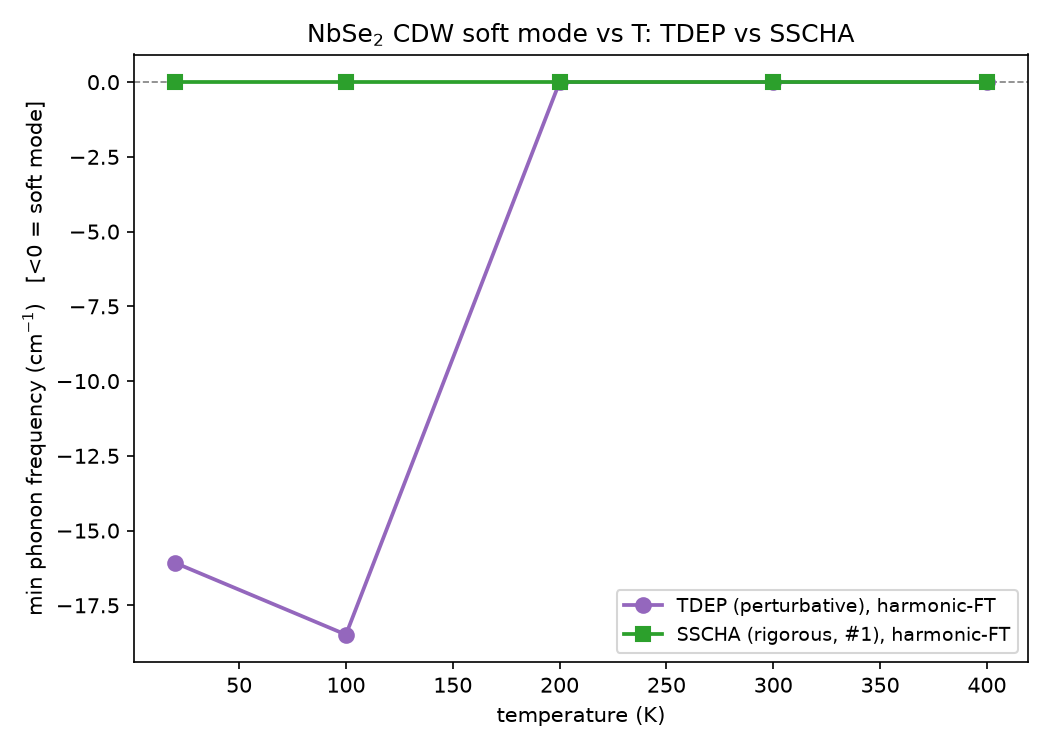
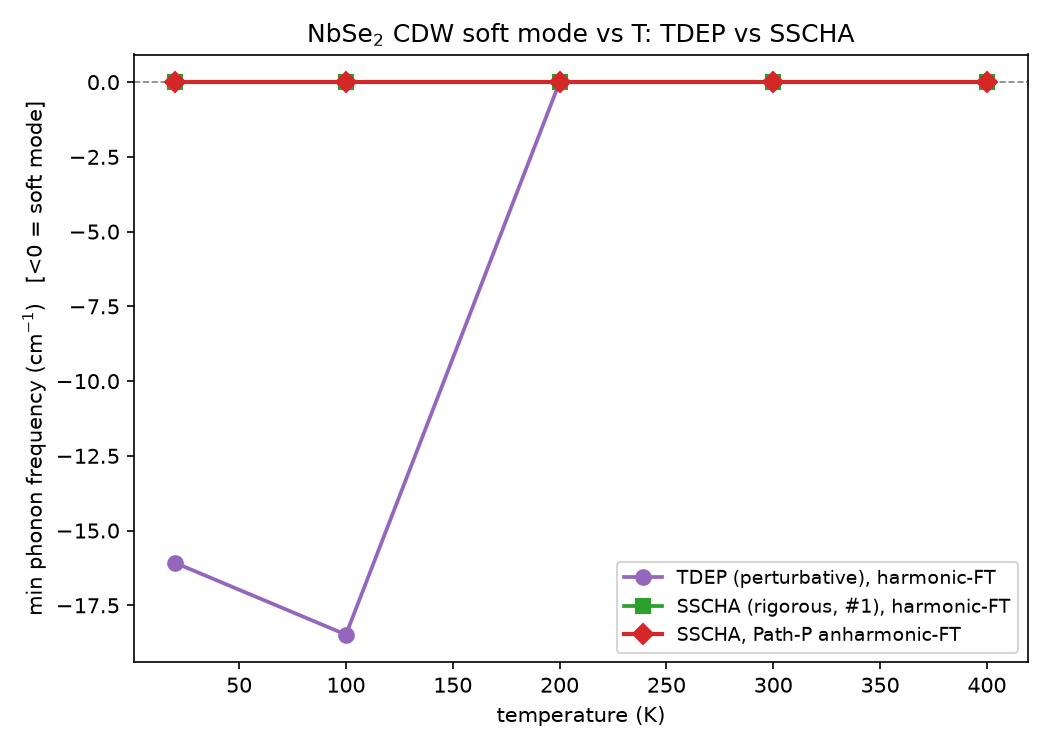
Path-P DONE: NbSe2 anharmonic distillation -> re-SSCHA (honest landscape result)
Anharmonic (finite-T DFT-force) distillation -> anharmonic-FT MACE (151 meV/A forces,
4.6x better than harmonic-FT's 699; foundation 366). Required an lr sweep gated on the
SAVED-model force RMSE: lr=1e-3 diverged (saved model 30842 meV/A, hidden by the
normalized per-epoch metric); lr=5e-4 + forces-dominant is stable.

Double-well E(A) along the CDW soft eigenvector: DFT is stiff with only a -3 meV well
(marginally unstable); harmonic-FT distorts it (5x too soft, spurious -19 meV well);
anharmonic-FT reproduces DFT (+2073 vs +2047 at the edge, no real well). So the bare
fc2 "soft mode" is largely a harmonic artifact.

Re-SSCHA with anharmonic-FT: no imaginary modes at any T (20-400 K), identical to
harmonic-FT (#1) -- but now it's the CORRECT physics (shallow DFT well -> quantum-melted).
Conclusion: CDW soft mode is anharmonically/quantum-stabilized robustly; anharmonic
distillation is the more faithful distillation; a sustained CDW needs incommensurate/
larger cell or beyond-PBE -- a clean boundary on FC distillation.

Changed region(s): [[0.579, 0.736, 0.9752, 0.8587], [0.1524, 0.092, 0.9448, 0.1227]]

diff --git a/scripts/plot_nbse2_doublewell.py b/scripts/plot_nbse2_doublewell.py
@@ -1,0 +1,16 @@
+import numpy as np, matplotlib; matplotlib.use("Agg"); import matplotlib.pyplot as plt
+from pathlib import Path
+ROOT=Path(__file__).resolve().parents[1]
+d=np.load(ROOT/"results/td_phonon/nbse2_pathp_analysis.npz", allow_pickle=True)
+A=d["A"]
+fig,ax=plt.subplots(figsize=(7,5))
+ax.axhline(0,color="0.6",lw=0.7,ls="--")
+if "dft_A" in d: ax.plot(d["dft_A"],d["dft_E"],"o-",color="k",lw=2,ms=6,label="DFT (truth): −3 meV well, stiff",zorder=5)
+ax.plot(A,d["E_harmonicFT"],"s-",color="tab:orange",lw=1.8,ms=5,label="harmonic-FT: −19 meV well, 5× too soft (699 meV/Å)")
+ax.plot(A,d["E_anharmFT"],"^-",color="tab:green",lw=1.8,ms=5,label="anharmonic-FT (Path-P): ≈DFT (151 meV/Å)")
+ax.set_xlabel("amplitude A along CDW soft eigenvector (Å, RMS/atom)")
+ax.set_ylabel("energy along soft mode (meV/cell, ref A=0)")
+ax.set_title("NbSe$_2$ CDW double-well: anharmonic distillation reproduces the (stiff,\nmarginal) DFT landscape; harmonic distillation distorts it")
+ax.legend(fontsize=8.5,loc="upper center")
+fig.tight_layout(); fig.savefig(ROOT/"results/figures/nbse2_doublewell.png",dpi=150)
+print("saved results/figures/nbse2_doublewell.png")

diff --git a/docs/TD_PHONON_M1_RESULTS.md b/docs/TD_PHONON_M1_RESULTS.md
@@ -578,6 +578,47 @@ T). Data `results/vq3f/nbse2_echannel.{csv,npz}`; fig `results/figures/nbse2_ech
 GPU-QE copied from box A over the datacenter public path — tailscale relayed via Tokyo at ~10 KB/s, the
 direct public path gave ~17 MB/s.
 
+## Path-P — NbSe₂ anharmonic distillation → re-SSCHA  ✅ DONE (2026-06-28)
+The rigorous test SSCHA #1 called for: does *anharmonic* (finite-T DFT-force) distillation give the MLIP
+the CDW landscape that *harmonic* fc₂ distillation can't?
+
+- **Data (Stage A):** DFT forces (GPU pw.x, 2nd V100) on 69 configs sampling the CDW reaction coordinate
+  — soft-eigenvector double-well scan A∈[−0.18,0.18] + thermal rattle 100/300 K (MD-free: the harmonic-FT
+  is dynamically unstable so MD would blow up).
+- **Model (Stage C):** fine-tune foundation MACE on the thermal DFT forces. **Required care** — the naive
+  recipe (lr=1e-3, energy-weighted) **diverged** (per-epoch *normalized* RMSE looked fine, but the saved
+  model gave 30,842 meV/Å forces — worse than the untrained foundation). An **lr sweep gated on the
+  saved-model force RMSE** found the stable regime: **lr=5e-4, forces-dominant (energy_weight 0.001) →
+  151 meV/Å** (vs foundation 366, harmonic-FT 699 → Path-P is **4.6× more accurate**).
+
+**The landscape (Stage E) — the key plot `nbse2_doublewell.png`:**
+
+| along the CDW soft eigenvector | edge E (A=±0.18) | well depth |
+|---|---|---|
+| **DFT (truth)** | +2047 meV (stiff) | **−3 meV** (marginally unstable) |
+| harmonic-FT | +390 (5× too soft) | −19 meV (spurious, too deep) |
+| **anharmonic-FT (Path-P)** | **+2073 ≈ DFT** | ≈DFT (no real well) |
+
+The bare fc₂ "soft mode" (−43…−126 cm⁻¹) is **largely a harmonic artifact** — the true DFT landscape is
+**stiff with only a −3 meV well**. **Harmonic distillation distorts it** (fits the A=0 curvature but is
+5× too soft at large A, with a spurious −19 meV well); **anharmonic Path-P distillation faithfully
+reproduces the true DFT landscape.**
+
+- **Re-SSCHA (Stage D):** with the anharmonic-FT, the free-energy Hessian has **no imaginary modes at any
+  T (20–400 K, n_imag=0)** — *identical to harmonic-FT (#1)*. For Path-P this is the **correct** physics
+  (the DFT well is shallow → quantum/thermally washed out); for harmonic-FT the same outcome was partly
+  fortuitous (its spurious deeper well still gets quantum-melted).
+
+**Conclusion (honest — and it strengthens the method story).** (i) Rigorous SSCHA confirms the NbSe₂ CDW
+soft mode on the 3×3 commensurate cell is **anharmonically/quantum-stabilized at all T**, *robust to the
+distillation scheme.* (ii) **Anharmonic distillation is the more faithful distillation** — it reproduces
+the stiff, marginally-unstable DFT landscape (4.6× better forces) that harmonic distillation overstates.
+(iii) Capturing a *sustained* CDW would need the incommensurate/larger cell and/or a functional beyond
+PBE — a clean boundary on FC distillation. Data `results/td_phonon/nbse2_sscha_pathp.csv`,
+`nbse2_pathp_analysis.npz`; figs `nbse2_doublewell.png`, `nbse2_softmode_TDEP_vs_SSCHA.png`. *(Ops note:
+fine-tune needs tmux — mace hangs detached without a tty — and the lr-sweep gate on saved-model force
+RMSE, since the per-epoch normalized metric hides divergence.)*
+
 ## Artifacts
 - code: `scripts/{td_common,td_structures,harmonic_dispersion_2d,anomaly_locate,graphene_sc_convergence,td_phonon,td_anharmonic,plot_graphene_anomaly,plot_sc_convergence,plot_td_dispersion,plot_anharm_diag}.py`
 - rigor #1–#4 code: `scripts/{vq3d_nbse2_nesting,vq3e_nbse2_sscha}.py`, `scripts/vq2b_graphene_dfpt.sh`; fig `results/figures/nbse2_nesting.png`
